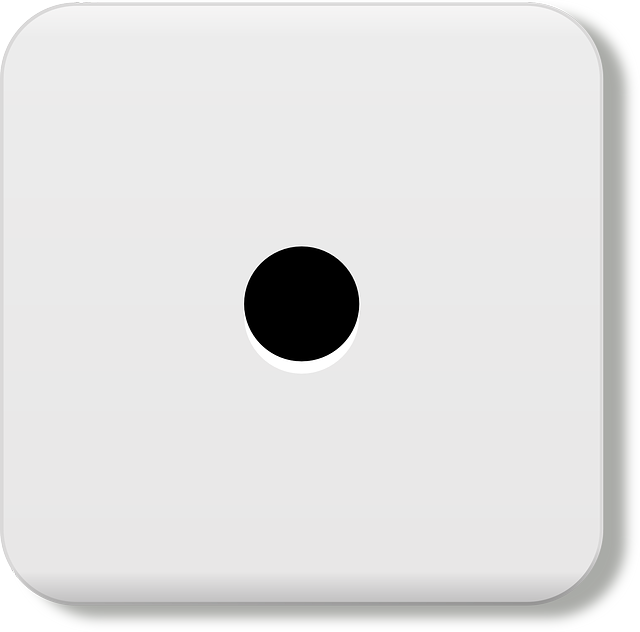
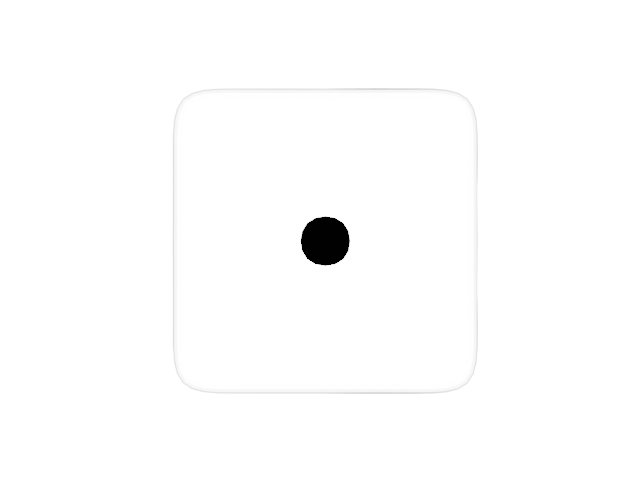
Updated the animation of the dice spinning, and removed unused code.

Changed region(s): [[0.0312, 0.0, 1.0, 1.0], [0.375, 0.375, 0.5625, 0.5938], [0.0, 0.0312, 0.0625, 0.9062]]

diff --git a/DicePage.xaml.cs b/DicePage.xaml.cs
@@ -22,88 +22,17 @@ namespace FIA_Grupp2
 
     public sealed partial class DicePage : Page
     {
-        private DispatcherTimer _diceTimer = new DispatcherTimer();
-        private int _amountOfSpins = 0;
-        private int _realDiceNumber;
-
-        object _sender;
+        Dice _dice = new Dice();
 
         public DicePage()
         {
             this.InitializeComponent();
-
-            _diceTimer.Tick += Timer_Tick;
-            _diceTimer.Interval = TimeSpan.FromMilliseconds(300);
         }
 
         private void Dice_Click(object sender, RoutedEventArgs e)
         {
-            _realDiceNumber = GetRandomDiceNumber();
-            _sender = sender;
 
-            PlayRandomSequence(4.0f);
-        }
-
-        private void Timer_Tick(object sender, object e)
-        {
-            if(_amountOfSpins <= 1)
-            {
-                _diceTimer.Stop();
-
-                ChangeDiceIcon($"ms-appx:///Assets/Dice_images/{GetImageFromDiceNumber(_realDiceNumber)}.png");
-            }
-            else
-            {
-                _amountOfSpins--;
-
-                int diceNumber = GetRandomDiceNumber();
-
-                ChangeDiceIcon($"ms-appx:///Assets/Dice_images/{GetImageFromDiceNumber(diceNumber)}.png");
-            }
-        }
-
-        private string GetImageFromDiceNumber(int number)
-        {
-            switch(number)
-            {
-                case 1:
-                    return "dice_one";
-                case 2:
-                    return "dice_two";
-                case 3:
-                    return "dice_three";
-                case 4:
-                    return "dice_four";
-                case 5:
-                    return "dice_five";
-                case 6:
-                    return "dice_six";
-            }
-
-            return null;
-        }
-
-        private int GetRandomDiceNumber()
-        {
-            Random r = new Random();
-            return r.Next(1, 7);
-        }
-
-        private void PlayRandomSequence(float seconds)
-        {
-            _amountOfSpins = (int)(seconds / ((float)(_diceTimer.Interval.Milliseconds) / 1000f));
-            _diceTimer.Start();
-        }
-
-        private void ChangeDiceIcon(string path)
-        {
-            BitmapImage newDiceImage = new BitmapImage(new Uri(path));
-
-            // Find the Image control inside the Button that has been pressed.
-            Image imageControl = (Image)((Button)_sender).Content;
-
-            // Update the Source property of the Button image control 
-            imageControl.Source = newDiceImage;
+            _dice.SpinDice(sender, e);
         }
     }
 }

diff --git a/Dice.cs b/Dice.cs
@@ -20,28 +20,18 @@ namespace FIA_Grupp2
     public class Dice
     {
         private DispatcherTimer _diceTimer = new DispatcherTimer();
-        private int _amountOfSpins = 0;
+        private int _amountOfSpinsLeft = 0;
         private int _realDiceNumber;
 
         private object _sender;
+
+        private double _diceSpinTickRate = 100.0;   //How fast will each tick be, in milliseconds, i.e. after 100 milliseconds a tick event is called.
 
         public void SpinDice(object sender, RoutedEventArgs e)
         {
             _diceTimer = new DispatcherTimer();
             _diceTimer.Tick += Timer_Tick;
-            _diceTimer.Interval = TimeSpan.FromMilliseconds(300);
-
-            _realDiceNumber = GetRandomDiceNumber();
-            _sender = sender;
-
-            PlayRandomSequence(4.0f);
-        }
-
-        public void Dice_Click(object sender, RoutedEventArgs e)
-        {
-            _diceTimer = new DispatcherTimer();
-            _diceTimer.Tick += Timer_Tick;
-            _diceTimer.Interval = TimeSpan.FromMilliseconds(300);
+            _diceTimer.Interval = TimeSpan.FromMilliseconds(_diceSpinTickRate);
 
             _realDiceNumber = GetRandomDiceNumber();
             _sender = sender;
@@ -51,7 +41,7 @@ namespace FIA_Grupp2
 
         private void Timer_Tick(object sender, object e)
         {
-            if (_amountOfSpins <= 1)
+            if (_amountOfSpinsLeft <= 1)
             {
                 _diceTimer.Stop();
 
@@ -59,11 +49,7 @@ namespace FIA_Grupp2
             }
             else
             {
-                _amountOfSpins--;
-
-                int diceNumber = GetRandomDiceNumber();
-
-                ChangeDiceIcon($"ms-appx:///Assets/Dice_images/{GetImageFromDiceNumber(diceNumber)}.png");
+                _amountOfSpinsLeft--;
             }
         }
 
@@ -96,8 +82,9 @@ namespace FIA_Grupp2
 
         private void PlayRandomSequence(float seconds)
         {
-            _amountOfSpins = (int)(seconds / ((float)(_diceTimer.Interval.Milliseconds) / 1000f));
+            _amountOfSpinsLeft = (int)(seconds / ((float)(_diceTimer.Interval.Milliseconds) / 1000f));
             _diceTimer.Start();
+            ChangeDiceIcon($"ms-appx:///Assets/Dice_images/random_spin_1.gif");
         }
 
         private void ChangeDiceIcon(string path)
